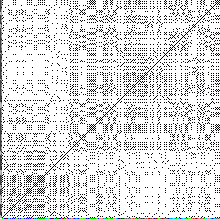
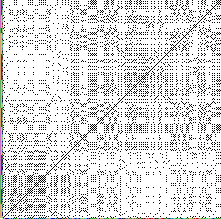
Add condition visualization to RecPlots

diff --git a/main.py b/main.py
@@ -26,8 +26,8 @@ RECURRENCE_PATH = 'recPlots'
 # Colored_CodingGrid.png
 NUMBER2COLOR = {0: (102, 102, 102), 1: (0, 204, 255), 2: (0, 0, 255), 3: (0, 0, 128), 4: (102, 255, 51), 5: (0, 255, 0),
                 6: (0, 128, 0), 7: (255, 128, 128), 8: (255, 0, 0), 9: (128, 0, 0)}
-TA2COLOR = {"T": (191,191,191), "A": (64, 64, 64) }
-
+TA2COLOR = {0: (191,191,191), 1: (64, 64, 64)}
+CONDITION2COLOR = {"f": (255, 77, 255), "p" :(51, 204, 51), "s": (255, 153, 51)}
 
 def analyze_eye_movement_patterns(interval_tier):
     pattern_dict = {}
@@ -116,18 +116,26 @@ def create_recurrence_plot_from_intervaltier(blickrichtung_tier, thinkanswer_tie
         thinkanswer_list = []
 
         for blkrchtng in blickrichtung_tier:
-            for ta in thinkanswer_tier:
-                if blkrchtng.xmin() >= ta.xmin() and blkrchtng.xmin() <= ta.xmax():
-                    thinkanswer_list.append((blkrchtng.mark(), ta.mark()))
-                    break
+            for n in range(len(thinkanswer_tier)):
+                mark = thinkanswer_tier[n].mark()
+                if mark[0] == "T":
+                    question_xmin = thinkanswer_tier[n].xmin()
+                    question_xmax = thinkanswer_tier[n+1].xmax()
+                    if question_xmin <= blkrchtng.xmin() <= question_xmax:
+                        thinkanswer_list.append((blkrchtng.mark(), n//2, mark))
+                        break
             else:
-                for ta in thinkanswer_tier:
-                    if math.floor(blkrchtng.xmin()) >= math.floor(ta.xmin()) and blkrchtng.xmin() <= ta.xmax():
-                        thinkanswer_list.append((blkrchtng.mark(), ta.mark()))
-                        break
-                    elif round(blkrchtng.xmin()) >= round(ta.xmin()) and blkrchtng.xmin() <= ta.xmax():
-                        thinkanswer_list.append((blkrchtng.mark(), ta.mark()))
-                        break
+                for n in range(len(thinkanswer_tier)):
+                    mark = thinkanswer_tier[n].mark()
+                    if mark[0] == "T":
+                        question_xmin = thinkanswer_tier[n].xmin()
+                        question_xmax = thinkanswer_tier[n + 1].xmax()
+                        if   math.floor(question_xmin) <= math.floor(blkrchtng.xmin()) <= question_xmax:
+                            thinkanswer_list.append((blkrchtng.mark(), n // 2, mark))
+                            break
+                        elif  round(question_xmin) <= round(blkrchtng.xmin()) <= question_xmax:
+                            thinkanswer_list.append((blkrchtng.mark(), n // 2, mark))
+                            break
                 else:
                     print("No fit:" + str(blkrchtng))
 
@@ -212,7 +220,7 @@ def add_numbers_to_recurrence_plot(numbers, recPlot, withQuestions=True):
     if not withQuestions:
         horiOffset = 1
     else:
-        horiOffset = 2
+        horiOffset = 3
     # create new image, but 1px or 2px wider and 1px higher, depending on withQuestions, with backgroundcolor white
     newPlotIm = Image.new(plotIm.mode, (plotIm.width + horiOffset, plotIm.height + 1), color='white')
     # paste the opened recPlot into the new image at location (1,0) so that there remains a white strip to the left and
@@ -232,15 +240,20 @@ def add_numbers_to_recurrence_plot(numbers, recPlot, withQuestions=True):
     print("len: " + str(count_TAs(numbers)))
 
     if withQuestions:
+
         question_color_dict = dict()
+        conditions_color_dict = dict()
         for ta in TA2COLOR:
             question_color_dict[TA2COLOR[ta]] = []
+        for condition in CONDITION2COLOR:
+            conditions_color_dict[CONDITION2COLOR[condition]] = []
     # fill in the dictionary with points at which to draw a particular color
     for number in range(len(numbers_clean)):
         number_color_dict[NUMBER2COLOR[int(numbers_clean[number][0])]] += [(horiOffset-1, (newPlotIm.height-2) - (number)), (number+horiOffset, newPlotIm.height-1)]
 
         if withQuestions:
-            question_color_dict[TA2COLOR[numbers_clean[number][1][0]]] += [(0, (newPlotIm.height-2) - number)]
+            question_color_dict[TA2COLOR[numbers_clean[number][1]%2]] += [(horiOffset -2, (newPlotIm.height-2) - number)]
+            conditions_color_dict[CONDITION2COLOR[numbers_clean[number][2][1]]] += [(horiOffset - 3, (newPlotIm.height-2) - number)]
 
     plotDraw = ImageDraw.Draw(newPlotIm)
 
@@ -250,6 +263,8 @@ def add_numbers_to_recurrence_plot(numbers, recPlot, withQuestions=True):
     for color in question_color_dict:
         plotDraw.point(question_color_dict[color], color)
 
+    for color in conditions_color_dict:
+        plotDraw.point(conditions_color_dict[color], color)
 
     newPlotIm.save(recPlot[:-4] + "_numbered.png")
 
